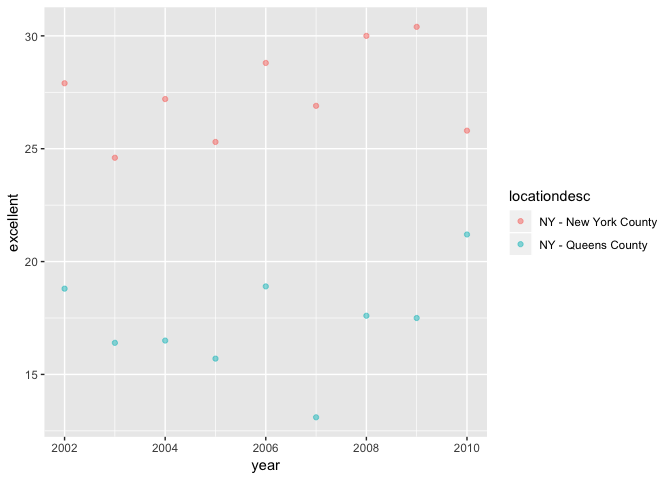
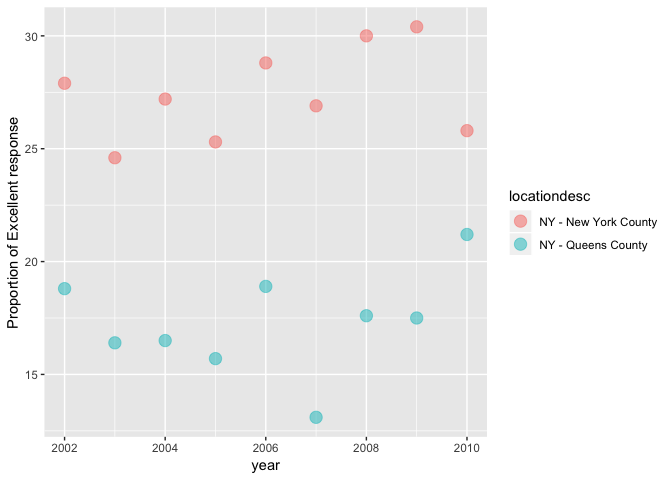
change problem 3 excellent & very good prop.

diff --git a/p8105_hw2_js5354.md b/p8105_hw2_js5354.md
@@ -280,7 +280,8 @@ brfss_combined = rbind(brfss_Q, brfss_NY)
 
 #plot
 ggplot(brfss_combined, aes(x = year, y = excellent, color = locationdesc)) +
-  geom_point(alpha = .5)
+  geom_point(size = 4, alpha = .5) +
+  ylab('Proportion of Excellent response')
 ```
 
 ![](p8105_hw2_js5354_files/figure-markdown_github/questions%20related%20to%202002%20data-2.png)
